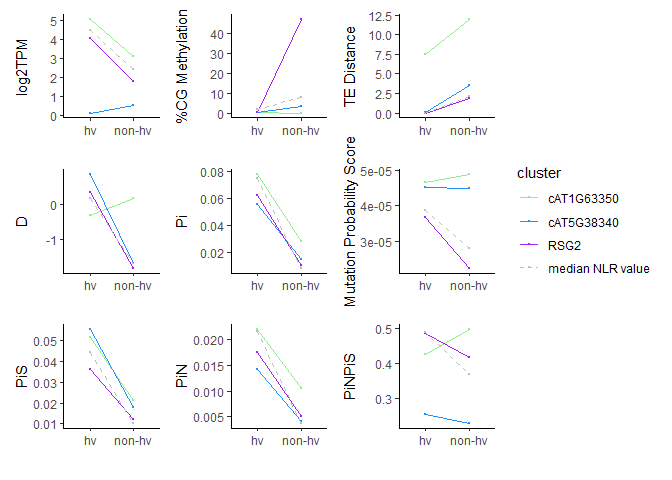
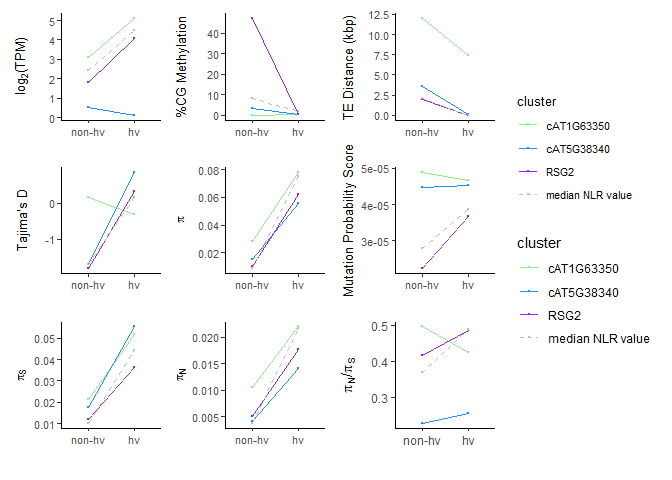
mixed cluster update final figure changes

diff --git a/figure_generation/mixed_cluster.md b/figure_generation/mixed_cluster.md
@@ -143,16 +143,19 @@ nlr_avg <- alt %>%
 mixed_df <- mixed_df %>% subset(select=c('Gene', 'HV', 'cluster','log2_TPM', 'meth_percentage', 'te_dist', 'Pi', 'D', 'PiN', 'PiS', 'Mutation.Probability.Score', 'PiNPiS')) %>% rbind(nlr_avg)
 
 mixed_df$cluster <- factor(mixed_df$cluster, levels = c('cAT1G63350', 'cAT5G38340', 'RSG2', 'median NLR value'))
+mixed_df$HV <- factor(mixed_df$HV, levels=c('non-hv', 'hv'))
 ```
 
 # EV Figure 4
 
 ``` r
+expr_label <- expression('log'[2]*'(TPM)')
 expr <- mixed_df %>% 
   ggplot(aes(x=HV, y=log2_TPM)) +
   geom_point(aes(color=cluster), size=0.5)+
   geom_line(aes(group=cluster, color=cluster, linetype=cluster), linewidth=0.3)+
-  theme_classic()+
+  ylab(expr_label)+
+  theme_classic(base_size = 10)+
   scale_color_manual(values=c('median NLR value'='grey', 
                               'cAT1G63350'='lightgreen', 
                               'cAT5G38340'='dodgerblue', 
@@ -161,12 +164,12 @@ expr <- mixed_df %>%
                               'cAT1G63350'=1, 
                               'cAT5G38340'=1, 
                               'RSG2'=1))+
-  labs(x = '', y='log2TPM')
+  labs(x = '')
 meth_percentage <- mixed_df %>% 
   ggplot(aes(x=HV, y=meth_percentage)) +
   geom_point(aes(color=cluster), size=0.5)+
   geom_line(aes(group=cluster, color=cluster, linetype=cluster), linewidth=0.3)+
-  theme_classic()+
+  theme_classic(base_size = 10)+
   scale_color_manual(values=c('median NLR value'='grey', 
                               'cAT1G63350'='lightgreen', 
                               'cAT5G38340'='dodgerblue', 
@@ -181,7 +184,7 @@ d <- mixed_df %>%
   ggplot(aes(x=HV, y=D)) +
   geom_point(aes(color=cluster), size=0.5)+
   geom_line(aes(group=cluster, color=cluster, linetype=cluster), linewidth=0.3)+
-  theme_classic()+
+  theme_classic(base_size=10)+
   scale_color_manual(values=c('median NLR value'='grey', 
                               'cAT1G63350'='lightgreen', 
                               'cAT5G38340'='dodgerblue', 
@@ -190,12 +193,13 @@ d <- mixed_df %>%
                               'cAT1G63350'=1, 
                               'cAT5G38340'=1, 
                               'RSG2'=1))+
-  labs(x = '', y='D')
+  labs(x = '', y="Tajima's D")
+pi_exp <- expression(pi)
 pi <- mixed_df %>% 
   ggplot(aes(x=HV, y=Pi)) +
   geom_point(aes(color=cluster), size=0.5)+
   geom_line(aes(group=cluster, color=cluster, linetype=cluster), linewidth=0.3)+
-  theme_classic()+
+  theme_classic(base_size = 10)+
   scale_color_manual(values=c('median NLR value'='grey', 
                               'cAT1G63350'='lightgreen', 
                               'cAT5G38340'='dodgerblue', 
@@ -204,12 +208,12 @@ pi <- mixed_df %>%
                               'cAT1G63350'=1, 
                               'cAT5G38340'=1, 
                               'RSG2'=1))+
-  labs(x = '', y='Pi')
+  labs(x = '', y=pi_exp)
 te_dist <- mixed_df %>% 
   ggplot(aes(x=HV, y=te_dist)) +
   geom_point(aes(color=cluster), size=0.5)+
   geom_line(aes(group=cluster, color=cluster, linetype=cluster), linewidth=0.3)+
-  theme_classic()+
+  theme_classic(base_size=10)+
   scale_color_manual(values=c('median NLR value'='grey', 
                               'cAT1G63350'='lightgreen', 
                               'cAT5G38340'='dodgerblue', 
@@ -218,12 +222,12 @@ te_dist <- mixed_df %>%
                               'cAT1G63350'=1, 
                               'cAT5G38340'=1, 
                               'RSG2'=1))+
-  labs(x = '', y='TE Distance')
+  labs(x = '', y='TE Distance (kbp)')
 PiN <- mixed_df %>% 
   ggplot(aes(x=HV, y=PiN)) +
   geom_point(aes(color=cluster), size=0.5)+
   geom_line(aes(group=cluster, color=cluster, linetype=cluster), linewidth=0.3)+
-  theme_classic()+
+  theme_classic(base_size=10)+
   scale_color_manual(values=c('median NLR value'='grey', 
                               'cAT1G63350'='lightgreen', 
                               'cAT5G38340'='dodgerblue', 
@@ -232,12 +236,12 @@ PiN <- mixed_df %>%
                               'cAT1G63350'=1, 
                               'cAT5G38340'=1, 
                               'RSG2'=1))+
-  labs(x = '', y='PiN')
+  labs(x = '', y=expression(pi[N]))
 PiS <- mixed_df %>% 
   ggplot(aes(x=HV, y=PiS)) +
   geom_point(aes(color=cluster), size=0.5)+
   geom_line(aes(group=cluster, color=cluster, linetype=cluster), linewidth=0.3)+
-  theme_classic()+
+  theme_classic(base_size=10)+
   scale_color_manual(values=c('median NLR value'='grey', 
                               'cAT1G63350'='lightgreen', 
                               'cAT5G38340'='dodgerblue', 
@@ -246,7 +250,7 @@ PiS <- mixed_df %>%
                               'cAT1G63350'=1, 
                               'cAT5G38340'=1, 
                               'RSG2'=1))+
-  labs(x = '', y='PiS')
+  labs(x = '', y=expression(pi[S]))
 PiNPiS <- mixed_df %>% 
   ggplot(aes(x=HV, y=PiN/PiS)) +
   geom_point(aes(color=cluster), size=0.5)+
@@ -260,12 +264,12 @@ PiNPiS <- mixed_df %>%
                               'cAT1G63350'=1, 
                               'cAT5G38340'=1, 
                               'RSG2'=1))+
-  labs(x = '', y='PiNPiS')
+  labs(x = '', y=expression(paste(pi[N],'/',pi[S])))
 mut_prob <- mixed_df %>% 
   ggplot(aes(x=HV, y=Mutation.Probability.Score)) +
   geom_point(aes(color=cluster), size=0.5)+
   geom_line(aes(group=cluster, color=cluster, linetype=cluster), linewidth=0.3)+
-  theme_classic()+
+  theme_classic(base_size=10)+
   scale_color_manual(values=c('median NLR value'='grey', 
                               'cAT1G63350'='lightgreen', 
                               'cAT5G38340'='dodgerblue', 
